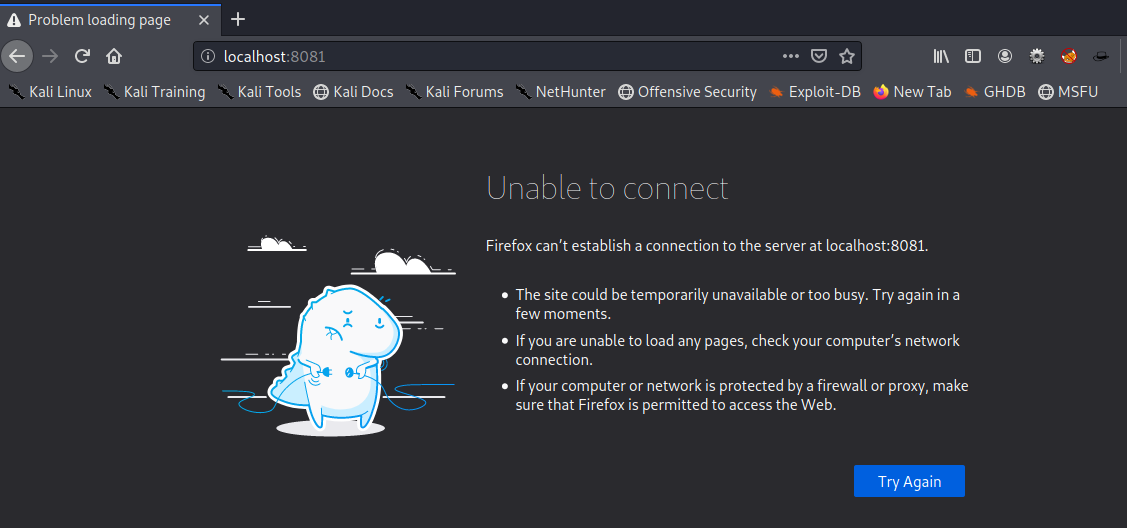
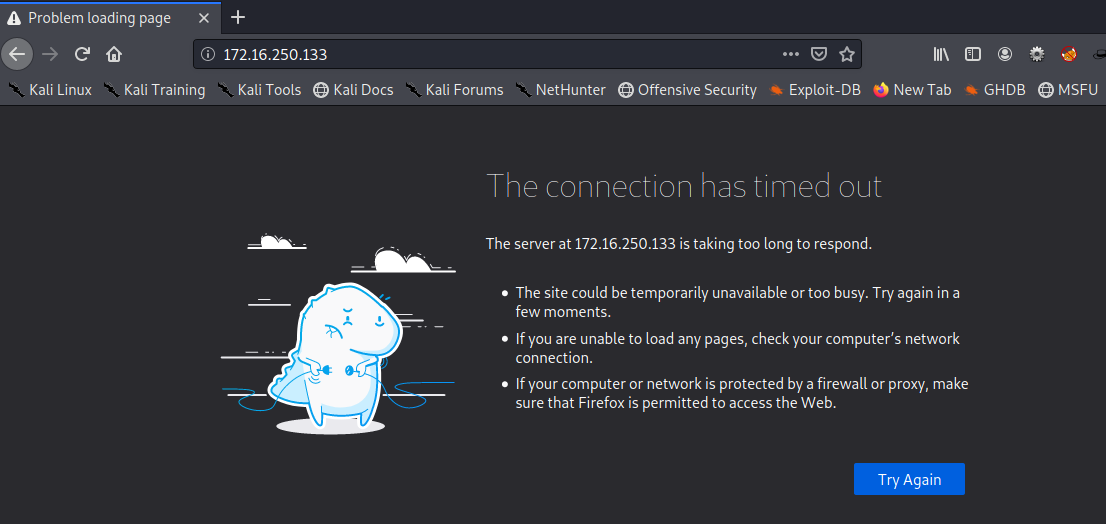
GitBook: [master] one page and 4 assets modified

diff --git a/README.md b/README.md
@@ -94,7 +94,7 @@ Pues.. para esto corremos el siguiente comando
 getuid
 ```
 
-![](.gitbook/assets/image%20%2837%29.png)
+![](.gitbook/assets/image%20%2839%29.png)
 
 Este comando permite consultar la cuenta que se esta ejecutando para el proceso del meterpreter.
 
@@ -119,7 +119,7 @@ Una vez ya ejecutado nuestro **netstat** podemos visualizar que para la linea 4 
 
 Aun asi estando ya dentro de nuestra maquina Ubuntu desde nuestro meterpreter validamos si el podemos ver la conexion en nuestro localhost sin haber realizado nuestro **Port Forwarding**
 
-![](.gitbook/assets/image%20%2838%29.png)
+![](.gitbook/assets/image%20%2840%29.png)
 
 Y en efecto... no podemos todavia desplegar la informaciòn desde nuestro localhost
 
@@ -143,7 +143,15 @@ Y como asegura el Apache2.. It works!
 
 Se utiliza el protocolo SSH para reenviar los puertos de la aplicación desde una máquina cliente a la máquina atacante. El cliente SSH escucha las conexiones en un puerto que ha sido configurado y hace un túnel a un SSH cuando se recibe una conexión hacia nuestra Kali o maquina atacante.
 
-Para esto claramente conocemos previamente el user y pass de la maquina victima
+Para esto debemos conocer previamente el user y pass de la maquina victima.
+
+Sin embargo, para confirmar que no tenemos acceso al Apache2 de nuestro Ubuntu decidimos realizar la consulta directamente en nuestro explorador
+
+![](.gitbook/assets/image%20%2837%29.png)
+
+y pues si.. no tenemos acceso.
+
+Seguido ejecutamos el siguiente comando en nuestra consola de nuestra Kali
 
 ```text
 ssh -L 8081:localhost:8080 -N -f -l juss 192.168.1.139
@@ -202,7 +210,13 @@ En este caso como ya tengo instalado el Sshuttle me saldra el siguiente mensaje
 
 ![](.gitbook/assets/image%20%2823%29.png)
 
-Una vez ya instalado corremos la setencia
+Seguido a la instalaciòn decidimos corroborar que en efecto no tenemos acceso a ver la Metasploitable2
+
+![](.gitbook/assets/image%20%2838%29.png)
+
+y en efecto, no mantenemos visibilidad sobre el equipo Metasploitable2.
+
+En respuesta a esto decidimos ejecutar nuestro binario **Sshuttle**
 
 ```text
 sshuttle -vr juss@192.168.1.139 172.16.250.129/16
